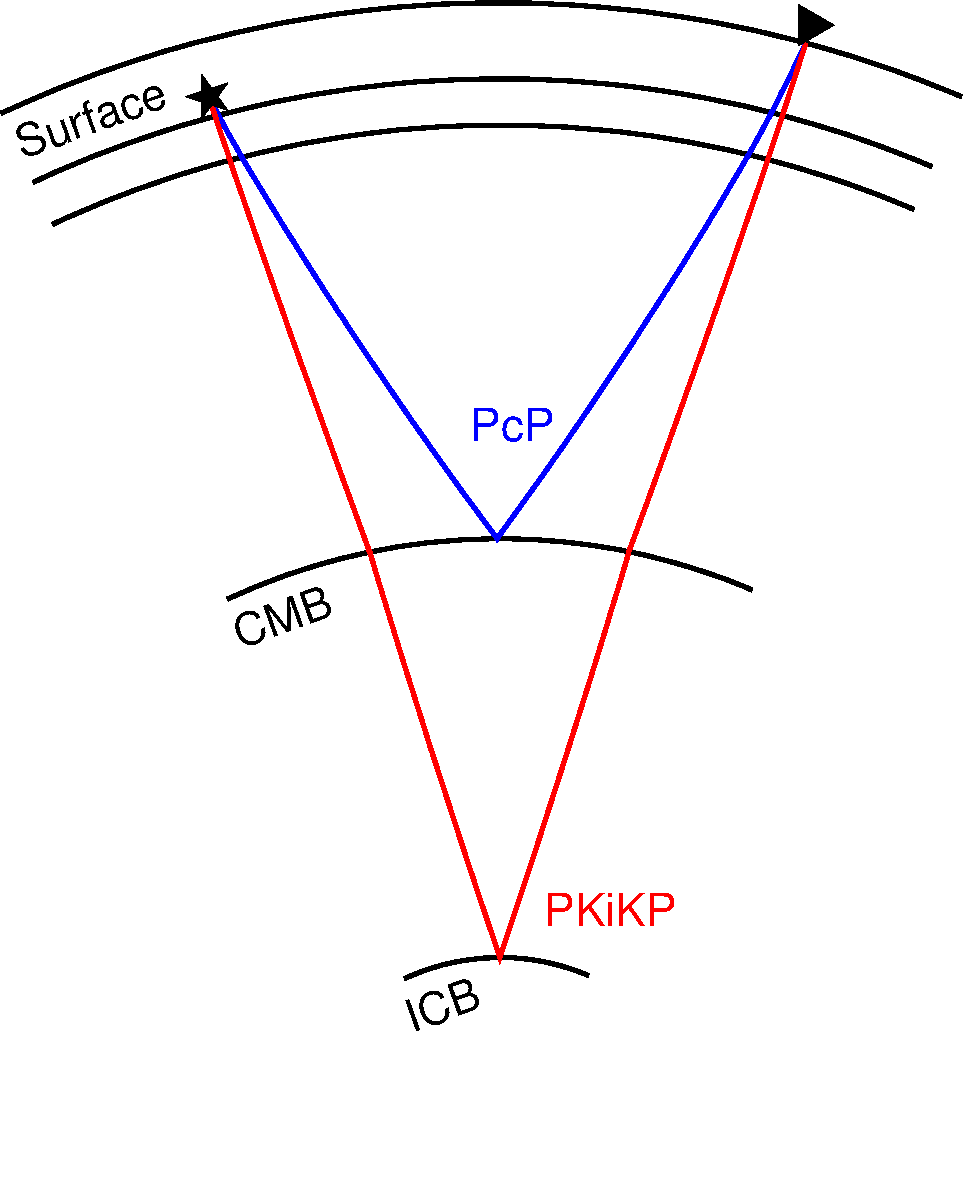
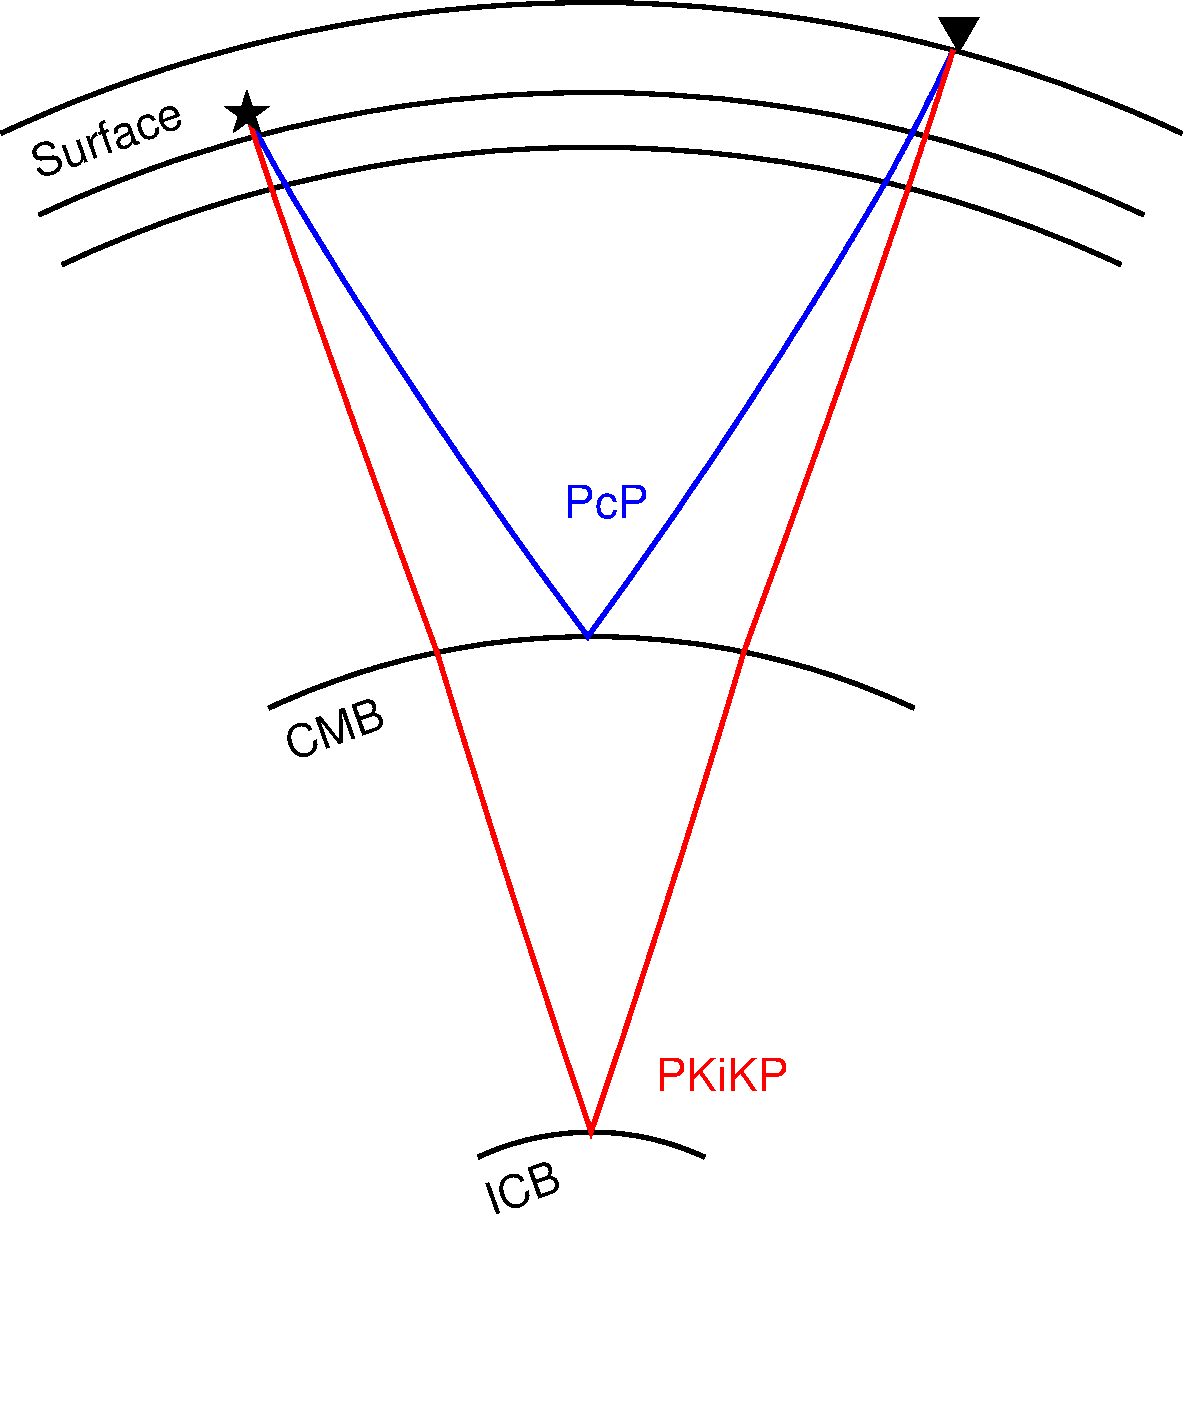
publish: fix orientation bugs
generated from commit 10abfa099f1c5e8a778eda9d687a1883efe0e5a7

Changed region(s): [[0.0, 0.0, 1.0, 0.8735], [0.2181, 0.0, 0.4673, 0.0312], [0.5607, 0.8111, 0.6231, 0.8423]]

diff --git a/example/ex002/index.html b/example/ex002/index.html
@@ -176,8 +176,8 @@
 
 
 <pre><code class="language-bash line-numbers">#!/bin/bash
-J=Pa10c/285
-R=-10/38/0/6371
+J=Pa10c/15
+R=-10/40/0/6371
 PS=earth-discontinuities.ps
 
 gmt set MAP_GRID_PEN_PRIMARY 1p
@@ -207,11 +207,11 @@ EOF
 
 # 添加标注
 gmt pstext -J$J -R$R -F&#43;f11p&#43;a -N -K -O &gt;&gt; $PS &lt;&lt; EOF
--6 6170 -70 Surface
--6 3280 -70 CMB
--3 1020 -70 ICB
-16 4100 -90 @;blue;PcP@;;
-37 1600 -90 @;red;PKiKP@;;
+-6 6170 20 Surface
+-6 3280 20 CMB
+-3 1020 20 ICB
+16 4100 0 @;blue;PcP@;;
+37 1600 0 @;red;PKiKP@;;
 EOF
 
 gmt psxy -J$J -R$R -T -O &gt;&gt; $PS
